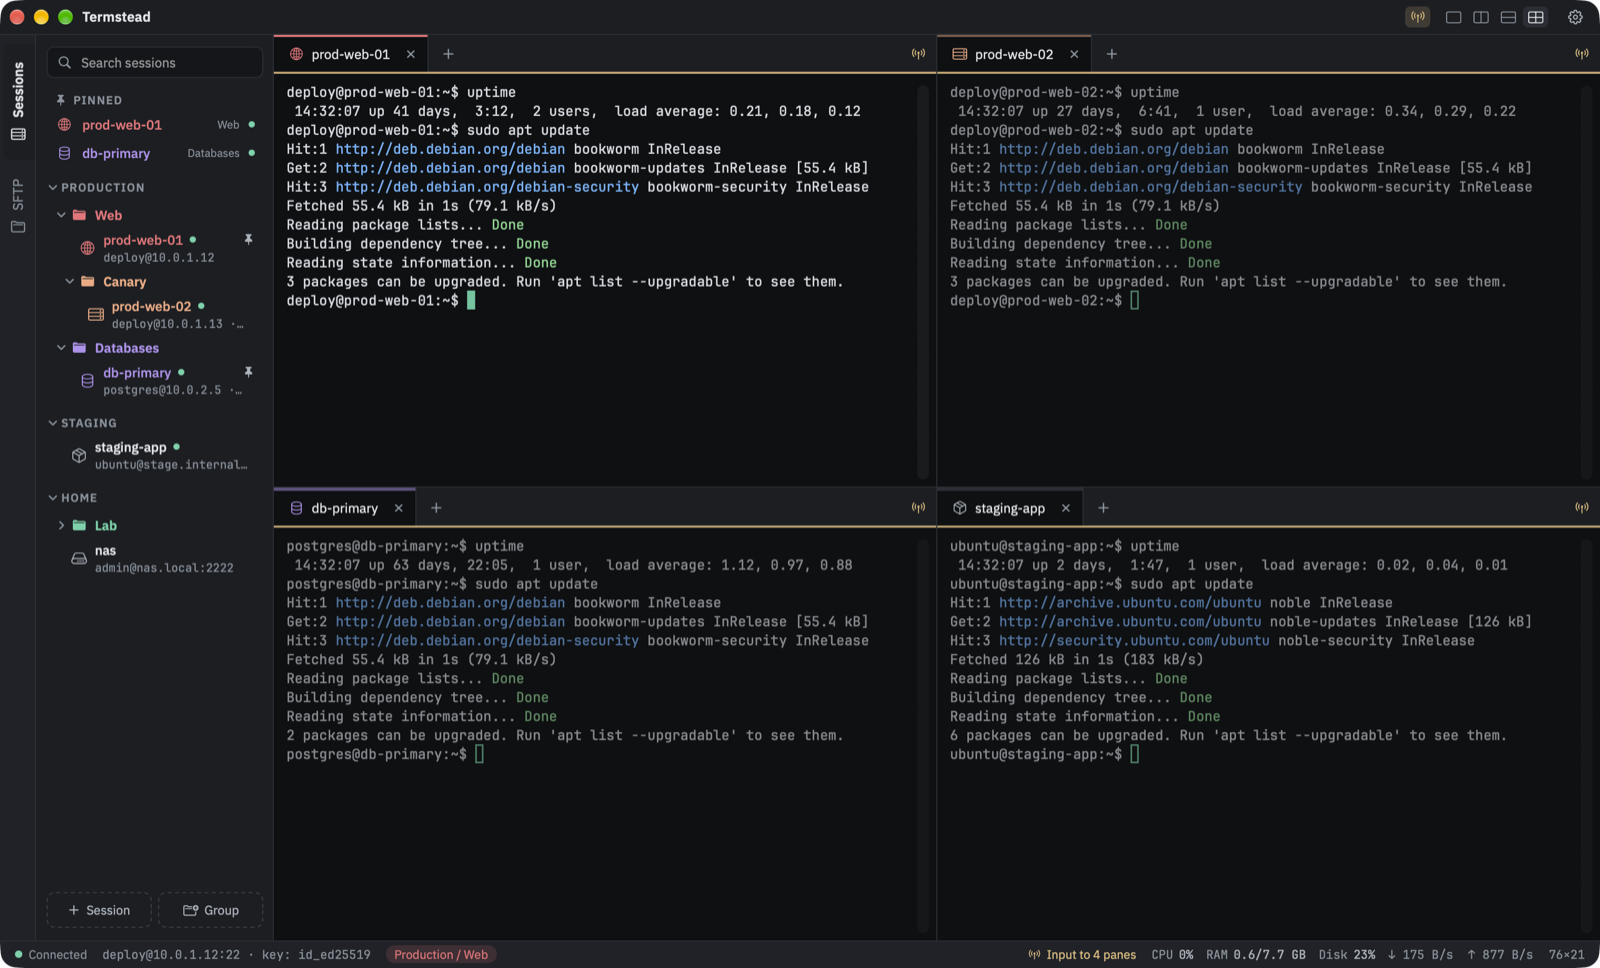
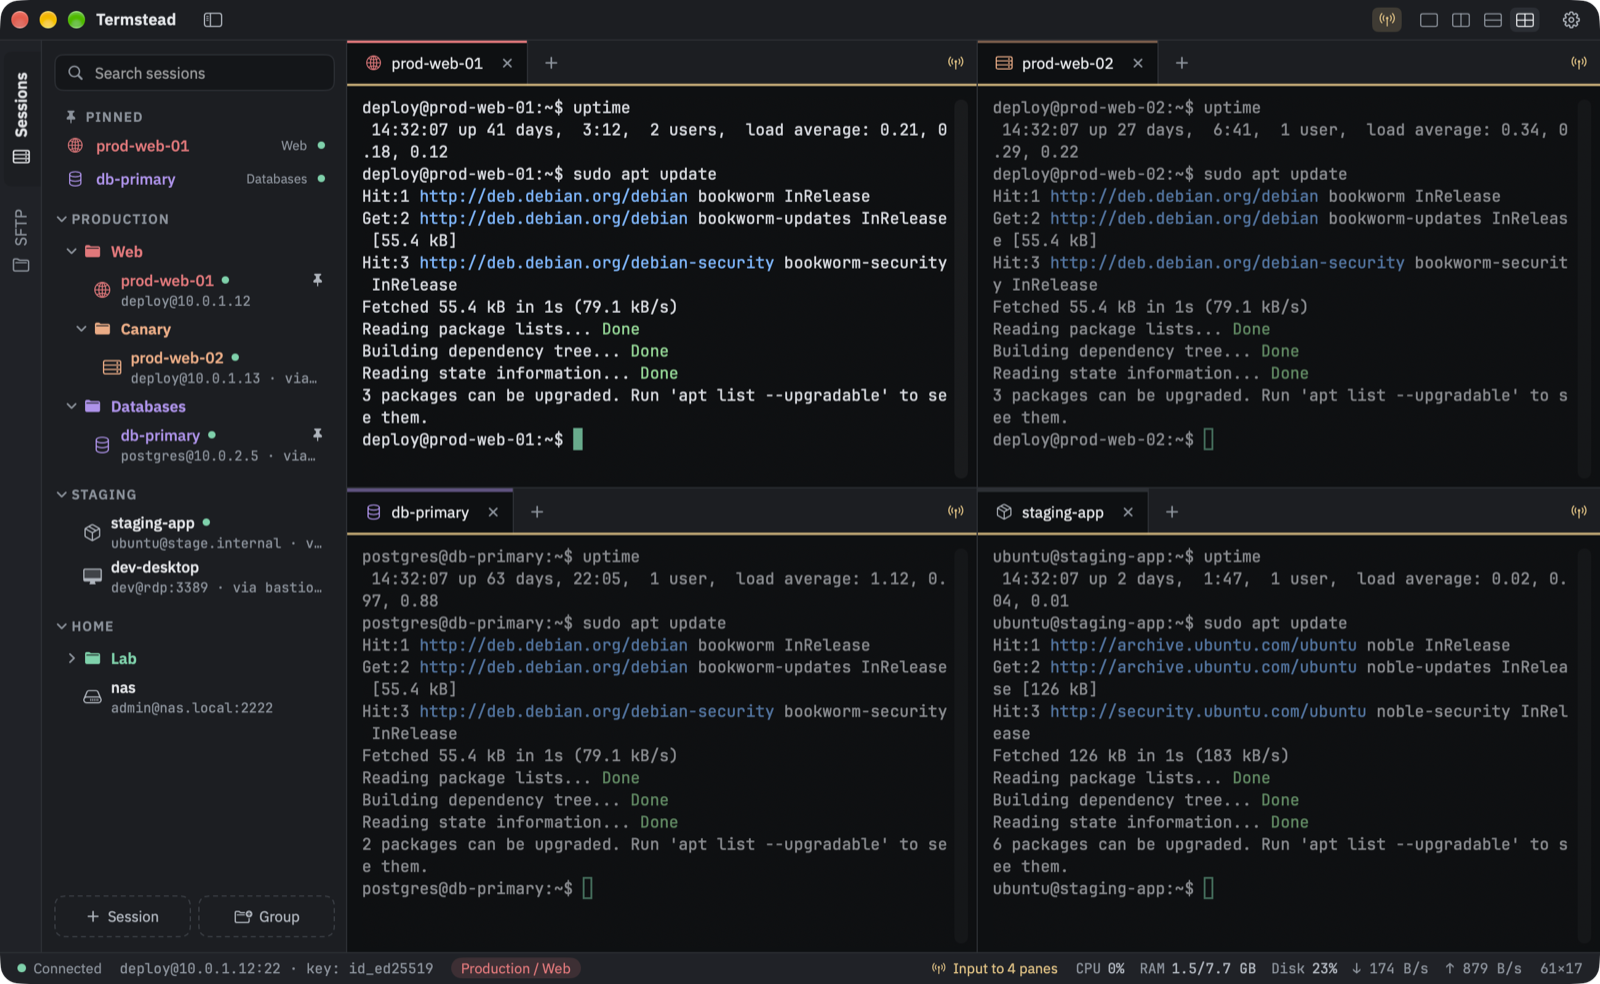
README and screenshots for 0.7.0
The README tells of remote desktops: a feature, a security note, the
zoom keys, FreeRDP and OpenSSL among what Termstead includes, and the
RDP engine's build step in Build from source. The screenshots are shot
again, with a remote desktop among them: the kit gains `desktop`, which
logs in to the lab's xrdp as a user of its own.

diff --git a/README.md b/README.md
@@ -5,7 +5,7 @@
 <h1 align="center">Termstead</h1>
 
 <p align="center">
-  <a href="https://github.com/pkhorenyan/termstead/releases/latest"><img src="https://img.shields.io/badge/version-0.6.0-2F6FB5" alt="Version 0.6.0"></a>
+  <a href="https://github.com/pkhorenyan/termstead/releases/latest"><img src="https://img.shields.io/badge/version-0.7.0-2F6FB5" alt="Version 0.7.0"></a>
   <img src="https://img.shields.io/badge/macOS-14%2B-2F6FB5?logo=apple&logoColor=white" alt="macOS 14 or later">
   <img src="https://img.shields.io/badge/universal-Apple%20Silicon%20%2B%20Intel-2F6FB5" alt="Universal: Apple Silicon and Intel">
   <img src="https://img.shields.io/badge/Swift-6-F05138?logo=swift&logoColor=white" alt="Swift 6">
@@ -14,10 +14,10 @@
 </p>
 
 <p align="center">
-  A native macOS SSH client for people who keep a lot of servers in their head —
-  sessions in a tree, jump hosts, SFTP next to the terminal, and passwords in the
-  macOS Keychain. Built for anyone coming from MobaXterm who wants the same way
-  of working, as a real Mac app.
+  A native macOS SSH and RDP client for people who keep a lot of servers in their
+  head — sessions in a tree, jump hosts, SFTP next to the terminal, remote
+  desktops in tabs, and passwords in the macOS Keychain. Built for anyone coming
+  from MobaXterm who wants the same way of working, as a real Mac app.
 </p>
 
 ![Termstead with a live session](docs/images/main-window.png)
@@ -40,6 +40,13 @@
   any pane can be left out.
 - **Jump hosts.** Chain as many as you need; a jump host can be a saved session,
   with its own user, key or password.
+- **Remote desktops (RDP) in tabs.** An RDP session opens as a tab like any
+  other, in any pane, and through its jump hosts if it has them. The desktop
+  fits the tab and follows it as the window is resized, sharp on Retina
+  screens; zoom with ⌘+ and ⌘−. Text and files copy both ways — from Finder
+  into Explorer and back — and Ctrl+Alt+Del and the Windows key are in the
+  Session menu. The server's certificate is checked as a browser would, and
+  one you have not seen before is asked about in the tab.
 - **Port forwarding.** Local, remote and SOCKS tunnels through every jump
   host on the way, started from a session's context menu on a connection of
   their own, with no terminal. Stop or start each one from the status bar.
@@ -68,6 +75,8 @@
   Terminal.
 
 ![Four servers in four panes, with broadcast input on](docs/images/panes.png)
+
+![A remote desktop in a tab, reached through a jump host, next to ssh sessions](docs/images/rdp.png)
 
 <p align="center">
   <img src="docs/images/sftp.png" alt="The SFTP tab next to a session" width="56%">
@@ -102,6 +111,11 @@ against the project's signing key before it is installed.
   terminal as usual.
 - The ssh configuration for each connection is written to a private temporary
   folder, readable only by you, and deleted when the tab closes.
+- Remote desktops are drawn by **FreeRDP in a sandboxed helper with no network
+  access**: Termstead opens the connection and hands it over, so a flaw in the
+  RDP code has no network of its own and no way into your ssh sessions. A
+  server that offers no TLS, and so cannot prove who it is, is not logged in
+  to. Your clipboard reaches a remote desktop only while you are typing in it.
 - Sessions are stored in `~/Library/Application Support/Termstead/sessions.json`.
   Nothing is sent anywhere: no accounts, no analytics.
 
@@ -120,7 +134,7 @@ against the project's signing key before it is installed.
 | Broadcast input to the visible panes | ⌥⌘I |
 | Hide / show the sidebar | ⌃⌘S |
 | Find / Next / Previous | ⌘F / ⌘G / ⇧⌘G |
-| Text size in the tab: bigger / smaller / default | ⌘+ / ⌘− / ⌘0 |
+| Text size in the tab — or a remote desktop's zoom: bigger / smaller / default | ⌘+ / ⌘− / ⌘0 |
 | Settings | ⌘, |
 
 Double-click a session to connect. A closed tab keeps its output — press Return
@@ -143,7 +157,8 @@ and Return is enough to connect.
 ## Build from source
 
 ```sh
-brew install xcodegen
+brew install xcodegen cmake ninja
+scripts/build-rdp-deps.sh   # FreeRDP and OpenSSL for the RDP engine, once
 xcodegen generate
 xcodebuild -project Termstead.xcodeproj -scheme Termstead -configuration Release \
   -derivedDataPath build build
@@ -168,7 +183,10 @@ this app.
 
 It includes [SwiftTerm](https://github.com/migueldeicaza/SwiftTerm) by Miguel de
 Icaza (MIT), vendored with small patches,
-[Sparkle](https://sparkle-project.org) for updates (MIT), and the typefaces
+[Sparkle](https://sparkle-project.org) for updates (MIT),
+[FreeRDP](https://www.freerdp.com) for remote desktops and
+[OpenSSL](https://www.openssl.org) under it (both Apache-2.0; FreeRDP is
+built with a small patch, in `scripts/rdp-patches`), and the typefaces
 [JetBrains Mono](https://www.jetbrains.com/lp/mono/) and
 [IBM Plex Sans](https://www.ibm.com/plex/), both under the SIL Open Font
 License 1.1. Their license texts travel inside the app, in

diff --git a/CLAUDE.md b/CLAUDE.md
@@ -167,7 +167,7 @@ Files tab: logs, a 20 MB file, odd names, symlinks, a read-only file and a
 folder that cannot be opened (`TestLab/entrypoint.sh`).
 
 **The README's screenshots** come from `TestLab/screenshots/shoot.sh`
-(`stage`, `open`, `panes`, `clean`). It uses the sample sessions without the
+(`stage`, `open`, `panes`, `desktop`, `clean`). It uses the sample sessions without the
 test lab, opens four tabs, and makes them look like real servers:
 - `prefix.conf` maps each sample address onto a lab container, `prod-web-02`
   through both jump hosts;
@@ -177,9 +177,19 @@ test lab, opens four tabs, and makes them look like real servers:
 - `panes` deals the four tabs out to a 2×2 layout with broadcast input on,
   and every server runs `fleet.sh` instead: the same commands, as if typed
   once.
+- `desktop` opens `dev-desktop`, the lab's xrdp through `bastion-01`, as a
+  user of its own (`desktop.sh`), and puts a file manager and a terminal on
+  its desktop from inside the container. It needs that user's password in
+  the Keychain for the session, added before and deleted after (see the
+  script's header).
 
 Nothing in them may show a real host, name or path. The sample host `nas`
-never gets a color.
+never gets a color. The window is set with
+`-window.frame.MainWindow "x y 1300 800 …"` and `-sidebar.width 282`; the
+copy saves that frame into the real defaults, so put the user's back after.
+`screencapture -l` on the session form returns its parent window: capture
+the form by its rectangle (`-R`, from `CGWindowListCopyWindowInfo`) with the
+app in front.
 
 ## Releases
 
